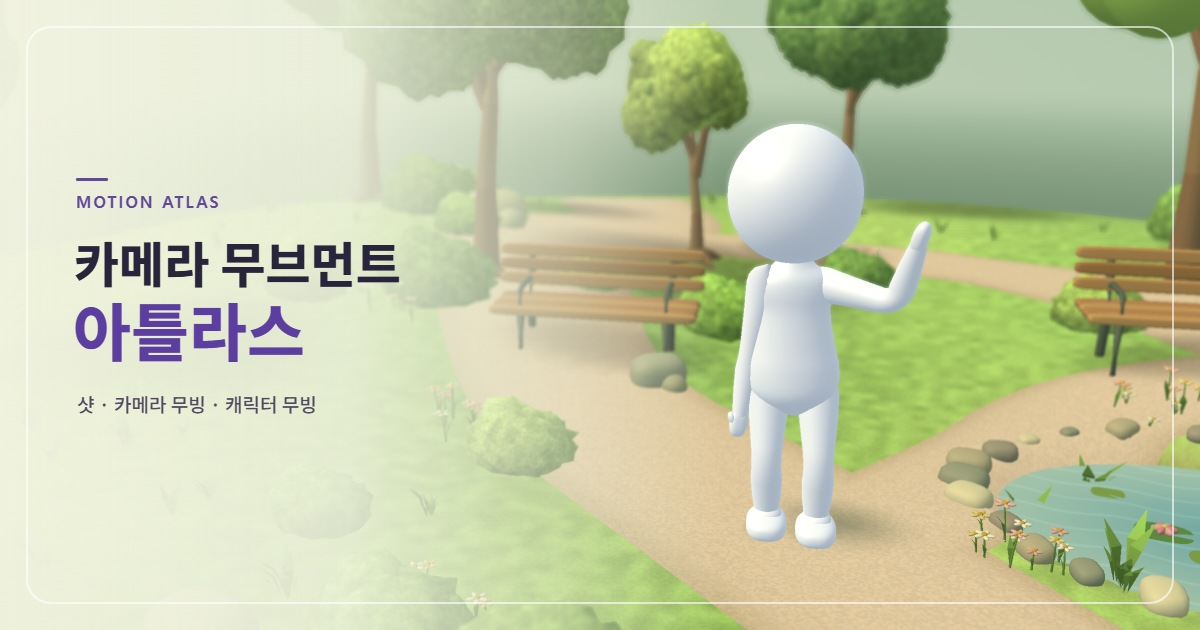
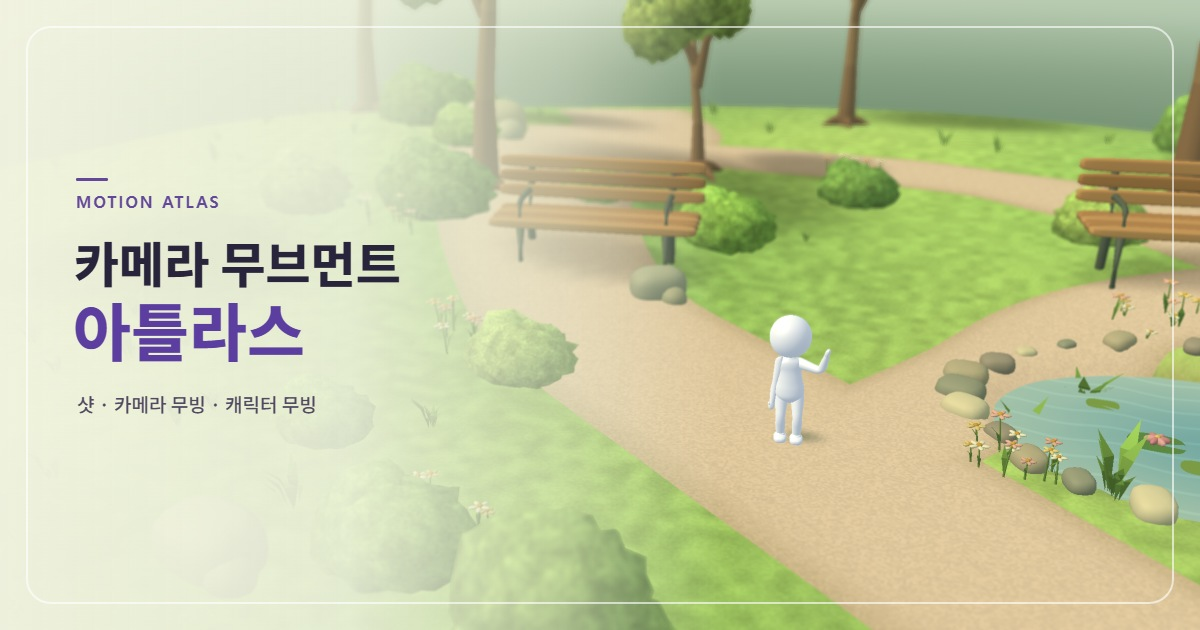
Scale the park stick figure to one third

diff --git a/index.html b/index.html
@@ -1128,6 +1128,8 @@ const targets = [
 ];
 const targetById = new Map(targets.map(target => [target.id, target]));
 
+const figureScale = 1 / 3;
+const figureGround = .020;
 const proportions = { hipHeight: 1.097, legUpper: .505, legLower: .482, armUpper: .526, armLower: .451 };
 const neutralFeet = [[-.179, .125, .013], [.179, .125, -.031]];
 const restingHeading = -.22;
@@ -1142,10 +1144,12 @@ const changeBothArms = (target, amount) => {
   return [pose, pose];
 };
 
-function figurePose(t, attributes = {}) {
+function figurePose(t, { position = [0, 0, 0], ...attributes } = {}) {
   const breath = Math.sin(t * TAU * 1.55);
+  const [x, y, z] = position;
   return {
-    position: [0, 0, 0], heading: restingHeading, lift: .013 * breath, shift: 0, bodyYaw: 0,
+    position: [x * figureScale, figureGround + y * figureScale, z * figureScale],
+    heading: restingHeading, lift: .013 * breath, shift: 0, bodyYaw: 0,
     bodyPitch: 0, bodyRoll: 0, headYaw: .035 * Math.sin(t * TAU), headPitch: 0, headRoll: 0,
     breathing: 1 + .012 * breath, feet: neutralFeet, footPitch: [0, 0], footYaw: [0, 0],
     arms: [restingArm, restingArm],
@@ -1467,6 +1471,8 @@ function loft(mesh, profile, steps, sides, color) {
 
 const headSize = [.451, .467, .431];
 const porcelain = rgb('f7f9f4');
+const figureWorldBasis = scaleBasis([figureScale, figureScale, figureScale]);
+const figurePoint = (pose, point) => add3(pose.position, mult3(point, figureScale));
 
 function buildActor(compact) {
   const torso = new Mesh(), head = new Mesh(), hand = new Mesh(), foot = new Mesh();
@@ -1518,7 +1524,8 @@ function armSkeleton(body, rotation, side, angles) {
 }
 
 function figureSkeleton(pose) {
-  const root = { origin: pose.position, basis: rotationY(pose.heading) };
+  // Solve joints in model units, then place the posed model in the park.
+  const root = { origin, basis: rotationY(pose.heading) };
   const pivot = [0, proportions.hipHeight, 0];
   const bend = multiplyBasis(rotationY(pose.bodyYaw), multiplyBasis(rotationZ(pose.bodyRoll), rotationX(-pose.bodyPitch)));
   const bodyRotation = multiplyBasis(root.basis, bend);
@@ -1541,11 +1548,13 @@ function figureSkeleton(pose) {
 }
 
 function figureLandmark(pose, target, rig = figureSkeleton(pose)) {
-  if (target.bone === 'wrist') return rig.arms[1].end;
-  if (target.bone === 'hand') return add3(rig.arms[1].end, apply3(rig.arms[1].handBasis, [0, .088, 0]));
-  if (target.bone === 'knee') return rig.legs[1].joint;
-  if (target.bone === 'foot') return transformPoint(rig.legs[1].foot, [0, -.031, -.112]);
-  return transformPoint(rig[target.bone || 'root'], target.point);
+  const place = point => figurePoint(pose, point);
+  const arm = rig.arms[1], leg = rig.legs[1];
+  if (target.bone === 'wrist') return place(arm.end);
+  if (target.bone === 'hand') return place(add3(arm.end, apply3(arm.handBasis, [0, .088, 0])));
+  if (target.bone === 'knee') return place(leg.joint);
+  if (target.bone === 'foot') return place(transformPoint(leg.foot, [0, -.031, -.112]));
+  return place(transformPoint(rig[target.bone || 'root'], target.point));
 }
 
 function figureObjects(pose, rig) {
@@ -1558,7 +1567,11 @@ function figureObjects(pose, rig) {
     parts.push({ name: 'hand', origin: arm.end, basis });
   }
   for (const { foot } of rig.legs) parts.push({ name: 'foot', ...foot });
-  return parts;
+  return parts.map(part => ({
+    name: part.name,
+    origin: figurePoint(pose, part.origin),
+    basis: multiplyBasis(figureWorldBasis, part.basis),
+  }));
 }
 
 function roundedLimb(mesh, { start, joint, end }, [root, upper, hinge, lower, tip], compact) {
@@ -2003,11 +2016,15 @@ function composeScene(selection) {
   const firstAim = figureLandmark(firstPose, target);
   const side = rotationY(rad(-17));
   const jumpRoom = actor.id === 'jump' && shot.id === 'full' && target.id === 'body';
-  if (jumpRoom) firstAim[1] += .28;
-  const d = shot.distance * (jumpRoom ? 1.16 : 1);
-  const scale = clamp(d / 7, .27, 1.62);
+  if (jumpRoom) firstAim[1] += .28 * figureScale;
+  const shotScale = ['establishing', 'wide', 'full'].includes(shot.id) ? 1 : figureScale;
+  const d = shot.distance * shotScale * (jumpRoom ? 1.16 : 1);
+  const scale = clamp(d / 7, .27 * shotScale, 1.62);
   const detail = ['close', 'extreme', 'macro'].includes(shot.id);
-  const level = detail ? clamp(firstAim[1] + .09, .26, 2.86) : shot.height + (jumpRoom ? .24 : 0);
+  const minHeight = figureGround + .26 * shotScale;
+  const level = detail
+    ? clamp(firstAim[1] + .09 * figureScale, minHeight, figureGround + 2.86 * figureScale)
+    : figureGround + shot.height * shotScale + (jumpRoom ? .24 * figureScale : 0);
   const horizontal = [firstPose.position[0], 0, firstPose.position[2]];
   const baseEye = offsetEye([0, level, -d], horizontal);
   const aimInitial = look(baseEye, firstAim, shot.lens);
@@ -2022,26 +2039,26 @@ function composeScene(selection) {
     const rawRadius = Math.hypot(raw.position[0], raw.position[2]);
     const startRadius = Math.hypot(start.position[0], start.position[2]);
     const ratio = rawRadius / startRadius;
-    const safeDistance = 1.65;
+    const safeDistance = 1.65 * shotScale;
     const straightTrack = technique.id === 'slider' || technique.id === 'cable';
     const radius = straightTrack ? d * ratio : safeDistance + (d - safeDistance) * ratio;
     const lift = ['crane', 'cable'].includes(technique.id) ? (start.position[1] - 1.4) * scale * .74 : 0;
-    const height = Math.max(.27, level + lift + (raw.position[1] - start.position[1]) * scale);
+    const height = Math.max(minHeight, level + lift + (raw.position[1] - start.position[1]) * scale);
     const eye = offsetEye([raw.position[0] * radius / rawRadius, height, raw.position[2] * radius / rawRadius], translation);
     return look(eye, aim, shot.lens);
   }
 
   function linked(pose, rig, aim, raw) {
     const heading = rotationY(pose.heading);
-    const y = level + pose.position[1] * .84;
+    const y = level + (pose.position[1] - figureGround) * .84;
     if (technique.id === 'pov') {
-      const eye = transformPoint(rig.head, [0, -.055, -.451]);
+      const eye = figurePoint(pose, transformPoint(rig.head, [0, -.055, -.451]));
       return orient(eye, Math.atan2(-heading[6], -heading[8]), -.065, shot.lens, { roll: raw.roll * .41 });
     }
     const relative = {
-      follow: [-.43, 0, d],
-      lead: [.32, 0, -d],
-      'side-track': [d, 0, -.13],
+      follow: [-.43 * shotScale, 0, d],
+      lead: [.32 * shotScale, 0, -d],
+      'side-track': [d, 0, -.13 * shotScale],
       snorri: [0, 0, -d],
     }[technique.id];
     const eye = add3([pose.position[0], y, pose.position[2]], apply3(heading, relative));
@@ -2064,7 +2081,7 @@ function composeScene(selection) {
     } else if (fixedAxes.has(technique.id)) {
       const delta = mult3(sub3(raw.position, midpoint.position), scale);
       const eye = add3(baseEye, apply3(side, delta));
-      eye[1] = Math.max(.24, eye[1]);
+      eye[1] = Math.max(minHeight, eye[1]);
       state = orient(eye, aimInitial.yaw, aimInitial.pitch, shot.lens);
     } else if (technique.id === 'top-down') {
       state = orient([horizontal[0] + raw.position[0] * scale, 2.4 + d * .95, horizontal[2] + raw.position[2] * scale], 0, -PI / 2, shot.lens);
@@ -2075,7 +2092,7 @@ function composeScene(selection) {
     } else if (technique.category === 'optics' && !dollyZooms.has(technique.id)) {
       state = { ...aimInitial, lens: shot.lens * raw.lens / start.lens };
     } else {
-      const pivot = follow ? [pose.position[0], pose.position[1] * .45, pose.position[2]] : horizontal;
+      const pivot = follow ? [pose.position[0], (pose.position[1] - figureGround) * .45, pose.position[2]] : horizontal;
       state = fitted(raw, aim, pivot);
       if (dollyZooms.has(technique.id)) {
         const initial = fitted(start, firstAim, horizontal);
@@ -2097,7 +2114,7 @@ function composeScene(selection) {
     state.rack = technique.id === 'rack';
     state.aperture = state.rack ? .26 : shot.aperture || (detail ? .084 : .042);
     const focus = dot3(sub3(posePoint, state.position), cameraBasis(state).forward);
-    const focusNear = Math.max(.42, focus);
+    const focusNear = Math.max(.42 * shotScale, focus);
     state.focus = state.hideActor ? 6 : state.rack ? 1 / mix(1 / focusNear, 1 / (focusNear + 12), smooth((t - .21) / .57)) : focusNear;
     return state;
   }
@@ -2118,7 +2135,7 @@ function frameCoverage(state, aspect) {
   const { right, up, forward } = cameraBasis(state);
   const focal = state.lens * state.crop / 18;
   const screen = points.map(point => {
-    const ray = sub3(point, state.position);
+    const ray = sub3(figurePoint(state.actor, point), state.position);
     const depth = dot3(ray, forward);
     return depth > .1 ? [dot3(ray, right) * focal / depth, dot3(ray, up) * focal * aspect / depth] : null;
   }).filter(Boolean);
@@ -2455,7 +2472,7 @@ function glRenderer(gl, set) {
       const limbs = figureLimbs(state.rig);
       gl.bindBuffer(gl.ARRAY_BUFFER, limbBuffer);
       gl.bufferData(gl.ARRAY_BUFFER, limbs, gl.DYNAMIC_DRAW);
-      drawMesh({ buffer: limbBuffer, length: limbs.length / 11 });
+      drawMesh({ buffer: limbBuffer, length: limbs.length / 11 }, state.actor.position, figureWorldBasis);
       for (const part of figureObjects(state.actor, state.rig)) {
         drawMesh(buffers[part.name], part.origin, part.basis);
       }
@@ -2479,12 +2496,20 @@ function glRenderer(gl, set) {
 
 function figureShadows(state) {
   const [x, y, z] = state.actor.position;
-  const spread = 1 + y * .29;
+  const elevation = y - figureGround;
+  const lift = elevation / figureScale;
+  const spread = figureScale * (1 + lift * .29);
   const place = (px, pz) => [px, parkHeight(px, pz) + .046, pz];
-  const shadows = [{ origin: place(x + .32 + y * .39, z + .22 + y * .22), basis: scaleBasis([.84 * spread, 1, .58 * spread]), opacity: 1.18 - .70 * clamp(y) }];
+  const shadows = [{
+    origin: place(x + .32 * figureScale + elevation * .39, z + .22 * figureScale + elevation * .22),
+    basis: scaleBasis([.84 * spread, 1, .58 * spread]), opacity: 1.18 - .70 * clamp(lift),
+  }];
   for (const { end } of state.rig.legs) {
-    const opacity = 1 - smooth((end[1] - .115) / .24);
-    if (opacity > .02) shadows.push({ origin: place(end[0], end[2] - .055), basis: scaleBasis([.25, 1, .29]), opacity });
+    const opacity = 1 - smooth((end[1] + lift - .115) / .24);
+    if (opacity > .02) {
+      const [footX, , footZ] = figurePoint(state.actor, end);
+      shadows.push({ origin: place(footX, footZ - .055 * figureScale), basis: scaleBasis([.25 * figureScale, 1, .29 * figureScale]), opacity });
+    }
   }
   return shadows;
 }
@@ -2552,7 +2577,7 @@ function canvasRenderer(context, set) {
     ];
     if (!state.hideActor) {
       triangles.limbs = facesFrom(figureLimbs(state.rig, true));
-      visibleMeshes.push({ name: 'limbs', origin, basis: IDENTITY }, ...figureObjects(state.actor, state.rig));
+      visibleMeshes.push({ name: 'limbs', origin: state.actor.position, basis: figureWorldBasis }, ...figureObjects(state.actor, state.rig));
     }
     const project = point => {
       const relative = [point[0] - state.position[0], point[1] - state.position[1], point[2] - state.position[2]];
@@ -2700,7 +2725,7 @@ function createMap(canvas) {
   let project;
   let axisScale;
   const mapPlane = (point, view) => view === 'top' ? [point[0], point[2]] : [point[2], point[1]];
-  const marker = state => transformPoint(state.rig.body, [0, 1.23, 0]);
+  const marker = state => figurePoint(state.actor, transformPoint(state.rig.body, [0, 1.23, 0]));
 
   function polyline(ctx, points, color, width, dash = []) {
     if (points.length === 0) return;
